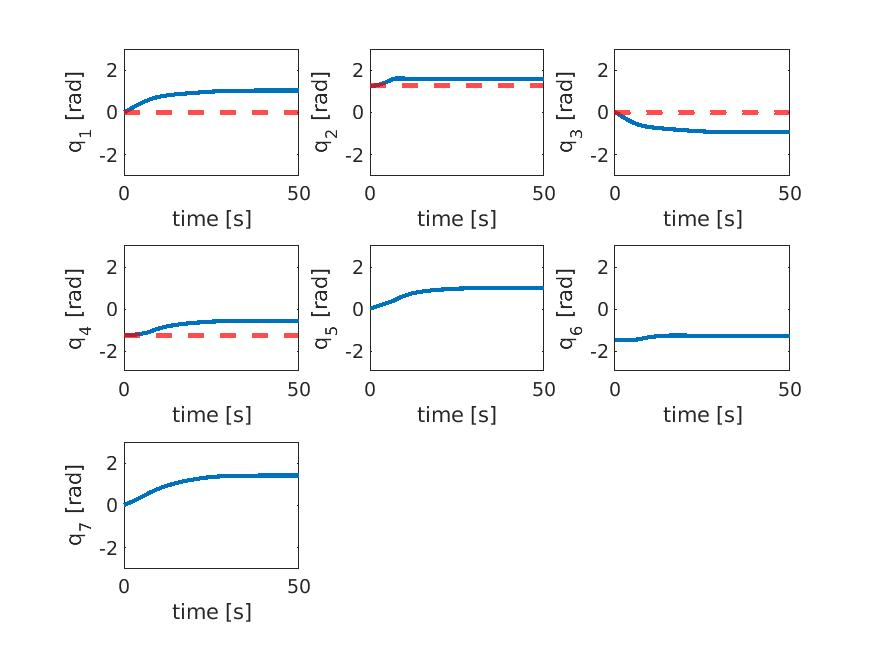
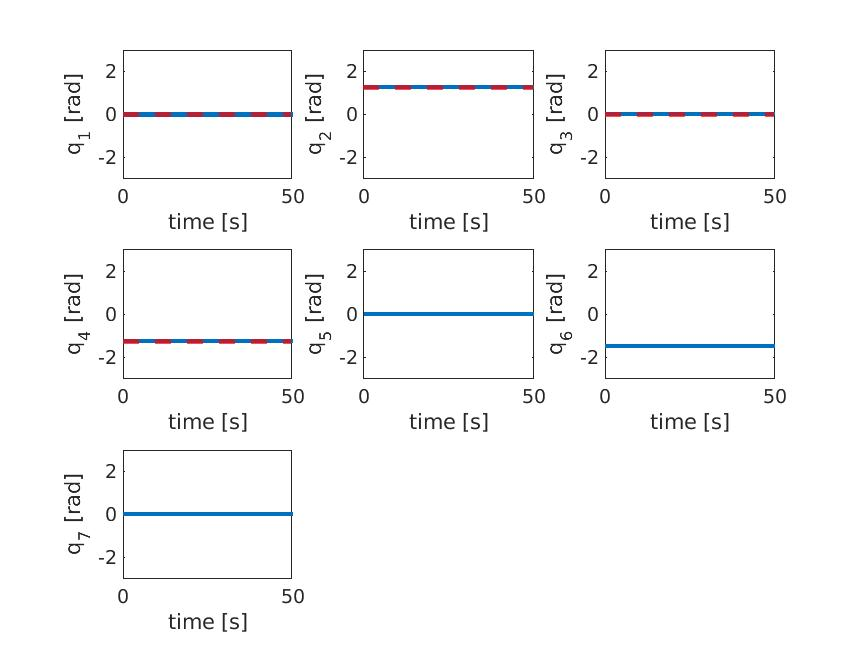
5_2 seems to work, no plots yet

diff --git a/cooperative_robotics/EnableTasksSetPriorities.m b/cooperative_robotics/EnableTasksSetPriorities.m
@@ -1,46 +1,58 @@
 function [Qp, rhop] = EnableTasksSetPriorities(uvms, mission, rhop, Qp)
     switch mission.phase
         case 1
-            % [Qp, rhop] = iCAT_task(uvms.A.mu,   uvms.Jmu,   Qp, rhop, uvms.xdot.mu, 0.000001, 0.0001, 10);
+            % Joint limit task
             [Qp, rhop] = iCAT_task(uvms.A.jl,    uvms.J.jl,    Qp, rhop, uvms.xdot.jl,  0.0001,   0.01, 10);
+            %Minimum altitude
+            %[Qp, rhop] = iCAT_task(uvms.A.min_alt, uvms.J_alt, Qp, rhop, uvms.xdot.min_alt, 0.0001, 0.01, 10);
+            %Horizontal attitude
+            [Qp, rhop] = iCAT_task(uvms.A.ha,    uvms.Jha,    Qp, rhop, uvms.xdot.ha,  0.0001,   0.01, 10);
+            %Angular velocity (of vehicle)
+            [Qp, rhop] = iCAT_task(uvms.A.v.ang,    uvms.Jv.ang,    Qp, rhop, uvms.xdot.v.ang,  0.0001,   0.01, 10);
+            %Linear velocity (of vehicle)
+            [Qp, rhop] = iCAT_task(uvms.A.v.lin,    uvms.Jv.lin,    Qp, rhop, uvms.xdot.v.lin,  0.0001,   0.01, 10);
+            [Qp, rhop] = iCAT_task(uvms.A.optim, uvms.J_optm, Qp, rhop, uvms.xdot.optm,  0.0001,   0.01, 10);
+        case 2
+            [Qp, rhop] = iCAT_task(uvms.A.jl,    uvms.J.jl,    Qp, rhop, uvms.xdot.jl,  0.0001,   0.01, 10);
+            [Qp, rhop] = iCAT_task(uvms.A.fix,    uvms.J.fix,    Qp, rhop, uvms.xdot.fix,  0.0001,   0.01, 10);
             [Qp, rhop] = iCAT_task(uvms.A.ha,   uvms.Jha,   Qp, rhop, uvms.xdot.ha, 0.0001,   0.01, 10);
             [Qp, rhop] = iCAT_task(uvms.A.t,    uvms.Jt,    Qp, rhop, uvms.xdot.t,  0.0001,   0.01, 10);
-            %[Qp, rhop] = iCAT_task(uvms.A.optim, uvms.J_optm, Qp, rhop, uvms.xdot.optm,  0.0001,   0.01, 10);
+            [Qp, rhop] = iCAT_task(uvms.A.optim, uvms.J_optm, Qp, rhop, uvms.xdot.optm,  0.0001,   0.01, 10);
         %     % Joint limit task
-        %     [Qp, ydotbar] = iCAT_task(uvms.A.jl,    uvms.J.jl,    Qp, ydotbar, uvms.xdot.jl,  0.0001,   0.01, 10);
+        %     [Qp, rhop] = iCAT_task(uvms.A.jl,    uvms.J.jl,    Qp, rhop, uvms.xdot.jl,  0.0001,   0.01, 10);
         %     %Minimum altitude
-        %     [Qp, ydotbar] = iCAT_task(uvms.A.min_alt, uvms.J_alt, Qp, ydotbar, uvms.xdot.min_alt, 0.0001, 0.01, 10);
+        %     [Qp, rhop] = iCAT_task(uvms.A.min_alt, uvms.J_alt, Qp, rhop, uvms.xdot.min_alt, 0.0001, 0.01, 10);
         %     %Horizontal attitude
-        %     [Qp, ydotbar] = iCAT_task(uvms.A.ha,    uvms.Jha,    Qp, ydotbar, uvms.xdot.ha,  0.0001,   0.01, 10);
+        %     [Qp, rhop] = iCAT_task(uvms.A.ha,    uvms.Jha,    Qp, rhop, uvms.xdot.ha,  0.0001,   0.01, 10);
         %     %Angular velocity (of vehicle)
-        %     [Qp, ydotbar] = iCAT_task(uvms.A.v.ang,    uvms.Jv.ang,    Qp, ydotbar, uvms.xdot.v.ang,  0.0001,   0.01, 10);
+        %     [Qp, rhop] = iCAT_task(uvms.A.v.ang,    uvms.Jv.ang,    Qp, rhop, uvms.xdot.v.ang,  0.0001,   0.01, 10);
         %     %Linear velocity (of vehicle)
-        %     [Qp, ydotbar] = iCAT_task(uvms.A.v.lin,    uvms.Jv.lin,    Qp, ydotbar, uvms.xdot.v.lin,  0.0001,   0.01, 10);
+        %     [Qp, rhop] = iCAT_task(uvms.A.v.lin,    uvms.Jv.lin,    Qp, rhop, uvms.xdot.v.lin,  0.0001,   0.01, 10);
         % case 2
         %     % Joint limit task
-        %     [Qp, ydotbar] = iCAT_task(uvms.A.jl,    uvms.J.jl,    Qp, ydotbar, uvms.xdot.jl,  0.0001,   0.01, 10);
+        %     [Qp, rhop] = iCAT_task(uvms.A.jl,    uvms.J.jl,    Qp, rhop, uvms.xdot.jl,  0.0001,   0.01, 10);
         %     % horizontal attitude
-        %     [Qp, ydotbar] = iCAT_task(uvms.A.ha,    uvms.Jha,    Qp, ydotbar, uvms.xdot.ha,  0.0001,   0.01, 10);
+        %     [Qp, rhop] = iCAT_task(uvms.A.ha,    uvms.Jha,    Qp, rhop, uvms.xdot.ha,  0.0001,   0.01, 10);
         %     % Goal attitude
-        %     [Qp, ydotbar] = iCAT_task(uvms.A.ga, uvms.J_ga, Qp, ydotbar, uvms.xdot.ga, 0.0001, 0.01, 10);
+        %     [Qp, rhop] = iCAT_task(uvms.A.ga, uvms.J_ga, Qp, rhop, uvms.xdot.ga, 0.0001, 0.01, 10);
         %     % Landing
-        %     [Qp, ydotbar] = iCAT_task(uvms.A.land, uvms.J_alt, Qp, ydotbar, uvms.xdot.land, 0.0001, 0.01, 10);
+        %     [Qp, rhop] = iCAT_task(uvms.A.land, uvms.J_alt, Qp, rhop, uvms.xdot.land, 0.0001, 0.01, 10);
         % case 3
         %     % Joint limit task
-        %     [Qp, ydotbar] = iCAT_task(uvms.A.jl,    uvms.J.jl,    Qp, ydotbar, uvms.xdot.jl,  0.0001,   0.01, 10);
+        %     [Qp, rhop] = iCAT_task(uvms.A.jl,    uvms.J.jl,    Qp, rhop, uvms.xdot.jl,  0.0001,   0.01, 10);
         %     % Fix the position of the robot
-        %     [Qp, ydotbar] = iCAT_task(uvms.A.fix,    uvms.J.fix,    Qp, ydotbar, uvms.xdot.fix,  0.0001,   0.01, 10);
+        %     [Qp, rhop] = iCAT_task(uvms.A.fix,    uvms.J.fix,    Qp, rhop, uvms.xdot.fix,  0.0001,   0.01, 10);
         %     % Move the tool towards the goal (=rock)
-        %     [Qp, ydotbar] = iCAT_task(uvms.A.t,    uvms.Jt,    Qp, ydotbar, uvms.xdot.t,  0.0001,   0.01, 10);
+        %     [Qp, rhop] = iCAT_task(uvms.A.t,    uvms.Jt,    Qp, rhop, uvms.xdot.t,  0.0001,   0.01, 10);
         % case 4
         %   % Joint limit task
-        %   [Qp, ydotbar] = iCAT_task(uvms.A.jl,    uvms.J.jl,    Qp, ydotbar, uvms.xdot.jl,  0.0001,   0.01, 10);
+        %   [Qp, rhop] = iCAT_task(uvms.A.jl,    uvms.J.jl,    Qp, rhop, uvms.xdot.jl,  0.0001,   0.01, 10);
         %   % horizontal attitude
-        %   [Qp, ydotbar] = iCAT_task(uvms.A.ha,    uvms.Jha,    Qp, ydotbar, uvms.xdot.ha,  0.0001,   0.01, 10);
+        %   [Qp, rhop] = iCAT_task(uvms.A.ha,    uvms.Jha,    Qp, rhop, uvms.xdot.ha,  0.0001,   0.01, 10);
         %   % Goal attitude
-        %   [Qp, ydotbar] = iCAT_task(uvms.A.ga, uvms.J_ga, Qp, ydotbar, uvms.xdot.ga, 0.0001, 0.01, 10);
+        %   [Qp, rhop] = iCAT_task(uvms.A.ga, uvms.J_ga, Qp, rhop, uvms.xdot.ga, 0.0001, 0.01, 10);
         %   %Optimization control task
-        %   [Qp, ydotbar] = iCAT_task(uvms.A.optim, uvms.J_optm, Qp, ydotbar, uvms.xdot.optm,  0.0001,   0.01, 10);
+        %   [Qp, rhop] = iCAT_task(uvms.A.optim, uvms.J_optm, Qp, rhop, uvms.xdot.optm,  0.0001,   0.01, 10);
         %   % Landing
-        %   [Qp, ydotbar] = iCAT_task(uvms.A.land, uvms.J_alt, Qp, ydotbar, uvms.xdot.land, 0.0001, 0.01, 10);  
+        %   [Qp, rhop] = iCAT_task(uvms.A.land, uvms.J_alt, Qp, rhop, uvms.xdot.land, 0.0001, 0.01, 10);  
     end

diff --git a/cooperative_robotics/plot_scripts/PrintPlot_5_2.m b/cooperative_robotics/plot_scripts/PrintPlot_5_2.m
@@ -1,0 +1,125 @@
+function [ ] = PrintPlot_5_1( plt, uvms )
+% some predefined plots
+% you can add your own
+dir='./plot_output/5_1/';
+suffix='_pref_disabled';
+
+mission_transitions = [];
+phases = [1 2 3 4 5 6 7 8 9 10];
+for phase = phases
+    mission_transitions = [mission_transitions, plt.t(find(plt.mission_phase==phase,1))];
+end
+
+
+% fig = figure(); hold on;
+% hplot = plot(plt.t, plt.a(17:20,:));
+% set(hplot,{'LineWidth'}, {4,2,2,2}', {'LineStyle'}, {'--','-','-','--'}');
+% for i = 1:plt.Nphases
+%     xline(plt.change_phase(i), '--r', ['Phase ',num2str(i)],'LabelVerticalAlignment', 'middle','FontSize',12);
+% end
+% if plt.goalreached
+%     xline(plt.change_phase(plt.Nphases+1), '--r', 'Goal reached','LabelVerticalAlignment', 'middle','FontSize',12);
+% end
+% legend({'Aoptq_1', 'Aoptq_2', 'Aoptq_3', 'Aoptq_4'},'FontSize',16);
+% xlabel('Time(s)','FontSize',14),ylabel('Activation value','FontSize',14);
+% title('\fontsize{16}Activation function of arm preferred shape');
+% ylim([0 1])
+% saveas(gcf,strcat(dir,'a_funct',suffix,'.jpg'))
+
+% fig = figure();hold on;
+% hplot = plot(plt.t, plt.toolx);
+% set(gca,'ColorOrderIndex',1);
+% set(hplot, 'LineWidth', 2);
+% hplot = yline(plt.pref_shape(1,end), 'LineWidth', 3, 'LineStyle','--');
+% set(hplot, 'LineWidth', 3);
+% ylim([11.5, 12.5]);
+% xlabel('time [s]')
+% ylabel('position of the tool [m]')
+% for i = 1:length(mission_transitions)
+%     xline(mission_transitions(i),':',strcat("Phase ",int2str(i)));
+% end
+% 
+% 
+% lgd.Location = 'eastoutside';
+% saveas(gcf,strcat(dir,'x_tool',suffix,'.jpg'))
+
+
+
+
+
+fig = figure();hold on;
+set(gca,'ColorOrderIndex',3)
+hplot = plot(plt.t, plt.toolx);
+set(hplot, 'LineWidth', 2);
+hplot = yline(plt.goal(1,end), 'LineWidth', 3, 'LineStyle','--');
+%ylim([-40, -39]);
+xlabel('time [s]')
+ylabel('position of the tool [m]')
+for i = 1:length(mission_transitions)
+    xline(mission_transitions(i),':',strcat("Phase ",int2str(i)));
+end
+legend('x_{tool}','x_{goal}');
+lgd.Location = 'southeast';
+saveas(gcf,strcat(dir,'x_tool',suffix,'.jpg'))
+
+fig = figure();hold on;
+set(gca,'ColorOrderIndex',3)
+hplot = plot(plt.t, plt.tooly);
+set(hplot, 'LineWidth', 2);
+hplot = yline(plt.goal(2,end), 'LineWidth', 3, 'LineStyle','--');
+%ylim([-40, -39]);
+xlabel('time [s]')
+ylabel('position of the tool [m]')
+for i = 1:length(mission_transitions)
+    xline(mission_transitions(i),':',strcat("Phase ",int2str(i)));
+end
+legend('y_{tool}','y_{goal}');
+lgd.Location = 'southeast';
+saveas(gcf,strcat(dir,'y_tool',suffix,'.jpg'))
+
+
+fig = figure();hold on;
+set(gca,'ColorOrderIndex',3)
+hplot = plot(plt.t, plt.toolz);
+set(hplot, 'LineWidth', 2);
+hplot = yline(plt.goal(3,end), 'LineWidth', 3, 'LineStyle','--');
+%ylim([-40, -39]);
+xlabel('time [s]')
+ylabel('position of the tool [m]')
+for i = 1:length(mission_transitions)
+    xline(mission_transitions(i),':',strcat("Phase ",int2str(i)));
+end
+legend('z_{tool}','z_{goal}');
+lgd.Location = 'southeast';
+saveas(gcf,strcat(dir,'z_tool',suffix,'.jpg'))
+
+
+
+pref_shape = [-0.0031 1.2586 0.0128 -1.2460]';
+fig = figure();hold on;
+for j = 1:7
+    subplot(3,3,j)
+    set(gca,'ColorOrderIndex',3)
+    hplot = plot(plt.t, plt.q(j,:));
+    ylim([-3, 3])
+    set(hplot, 'LineWidth', 2);
+    %hplot = yline(plt.goal(3,end), 'LineWidth', 3, 'LineStyle','--');
+    xlabel('time [s]')
+    ylabel(strcat('q_',num2str(j), ' [rad]'))
+    for i = 1:length(mission_transitions)
+        xline(mission_transitions(i),':');
+    end
+    if j <= 4
+        hplot = yline(pref_shape(j),'r--');
+        set(hplot, 'LineWidth', 2);
+    end
+end
+% subplot(3,3,8)
+% plot(0,0,  0,0,  0,0,  0,0)
+% axis off
+% legend('al_1','al_2','al_3','al_4','al_5','al_6','al_7');
+saveas(gcf,strcat(dir,'q',suffix,'.jpg'))
+
+
+
+end

diff --git a/cooperative_robotics/UpdateMissionPhase.m b/cooperative_robotics/UpdateMissionPhase.m
@@ -4,16 +4,25 @@ function [uvms, mission] = UpdateMissionPhase(uvms, mission)
             [ang, lin] = CartError(uvms.wTg , uvms.wTv);
             eps_lin = 0.01;
             eps_ang = 0.05;
+            norm(ang)
+            norm(lin)
             if norm(ang) < eps_ang && norm(lin) < eps_lin
                 mission.phase = 2;
-            end
-        case 2 
-            if uvms.alt < 0.03
-                mission.phase = 3;
-                uvms.fixedPose = uvms.wTv;
-                uvms.goalPosition = [12.2025   37.3748  -39.8860]'; %Rock center!
+                % Rotation matrix to convert coordinates between Unity and the <w> frame
+                % do not change
+                wuRw = rotation(0,-pi/2,pi/2);
+                vRvu = rotation(-pi/2,0,-pi/2);
+
+                % pipe parameters
+                u_pipe_center = [-10.66 31.47 -1.94]'; % in unity coordinates
+                pipe_center = wuRw'*u_pipe_center;     % in world frame coordinates
+                pipe_radius = 0.3;
+                distanceGoalWrtPipe = 0.3;
+                uvms.goalPosition = pipe_center + (pipe_radius + distanceGoalWrtPipe)*[0 0 1]';
                 uvms.wRg = rotation(pi,0,0);
-                uvms.wTg = [uvms.wRg uvms.goalPosition; 0 0 0 1]; 
+                uvms.wTg = [uvms.wRg uvms.goalPosition; 0 0 0 1];
+
+                uvms.fixedPose = uvms.wTv;
             end
     end
 end

diff --git a/cooperative_robotics/MainDexrov.m b/cooperative_robotics/MainDexrov.m
@@ -7,7 +7,7 @@ close all
 % Simulation variables (integration and final time)
 deltat = 0.005;
 deltat = 0.05;
-end_time = 50;
+end_time = 100;
 loop = 1;
 maxloops = ceil(end_time/deltat);
 
@@ -51,8 +51,8 @@ uvms.p = [-1.9379 10.4813-6.1 -29.7242-0.1 0 0 0]';
 % initial goal position definition
 % slightly over the top of the pipe
 distanceGoalWrtPipe = 0.3;
-uvms.goalPosition = pipe_center + (pipe_radius + distanceGoalWrtPipe)*[0 0 1]';
-uvms.wRg = rotation(pi,0,0);
+uvms.goalPosition = pipe_center + (pipe_radius + distanceGoalWrtPipe + 1)*[0 0 1.5]' ;
+uvms.wRg = rotation(0,0,0);
 uvms.wTg = [uvms.wRg uvms.goalPosition; 0 0 0 1];
 
 % defines the tool control point
@@ -96,7 +96,7 @@ for t = 0:deltat:end_time
     % add debug prints here
     if (mod(t,0.1) == 0)
         t
-        uvms.p'
+        % uvms.p'
     end
     
     % enable this to have the simulation approximately evolving like real

diff --git a/cooperative_robotics/InitUVMS.m b/cooperative_robotics/InitUVMS.m
@@ -24,8 +24,8 @@ uvms.jlmin  = [-2.9;-1;-2.9;-2.95;-2.9;-1.65;-2.8]; %For testing if joint limit 
 uvms.jlmax  = [2.9;1.65;2.9;0.01;2.9;1.25;2.8];
 
 %Constants for minimum altitude objective
-uvms.min_alt = 1                         % Constants
-uvms.target_distance_above_min_alt = 0.3  % Inequality objective! Target should be above the minimal height
+uvms.min_alt = 1;                         % Constants
+uvms.target_distance_above_min_alt = 0.3;  % Inequality objective! Target should be above the minimal height
 
 
 % to be computed at each time step

diff --git a/cooperative_robotics/PrintPlot.m b/cooperative_robotics/PrintPlot.m
@@ -1,6 +1,6 @@
 function [ ] = PrintPlot( plt, uvms )
 
-%PrintPlot_default(plt)
+PrintPlot_default(plt)
 %PrintPlot_1_1_horizontal_target(plt)
 %PrintPlot_1_1_ha_ena(plt)
 %PrintPlot_1_1_ha_not_ena(plt)
@@ -10,6 +10,7 @@ function [ ] = PrintPlot( plt, uvms )
 %PrintPlot_3_1(plt)
 %PrintPlot_4_1(plt)
 %PrintPlot_4_2(plt)
-PrintPlot_5_1( plt, uvms )
+%PrintPlot_5_1( plt, uvms )
+%PrintPlot_5_2( plt, uvms )
 end
 

diff --git a/cooperative_robotics/UpdateDataPlot.m b/cooperative_robotics/UpdateDataPlot.m
@@ -47,7 +47,5 @@ plt.target_distance_above_min_alt(:,loop) = uvms.target_distance_above_min_alt;
 plt.xi(:,loop) = norm(uvms.xi);
 
 plt.jlmin = uvms.jlmin;
-plt.jlmin(1)
-plt.jlmin(2)
 plt.jlmax = uvms.jlmax;
 end
